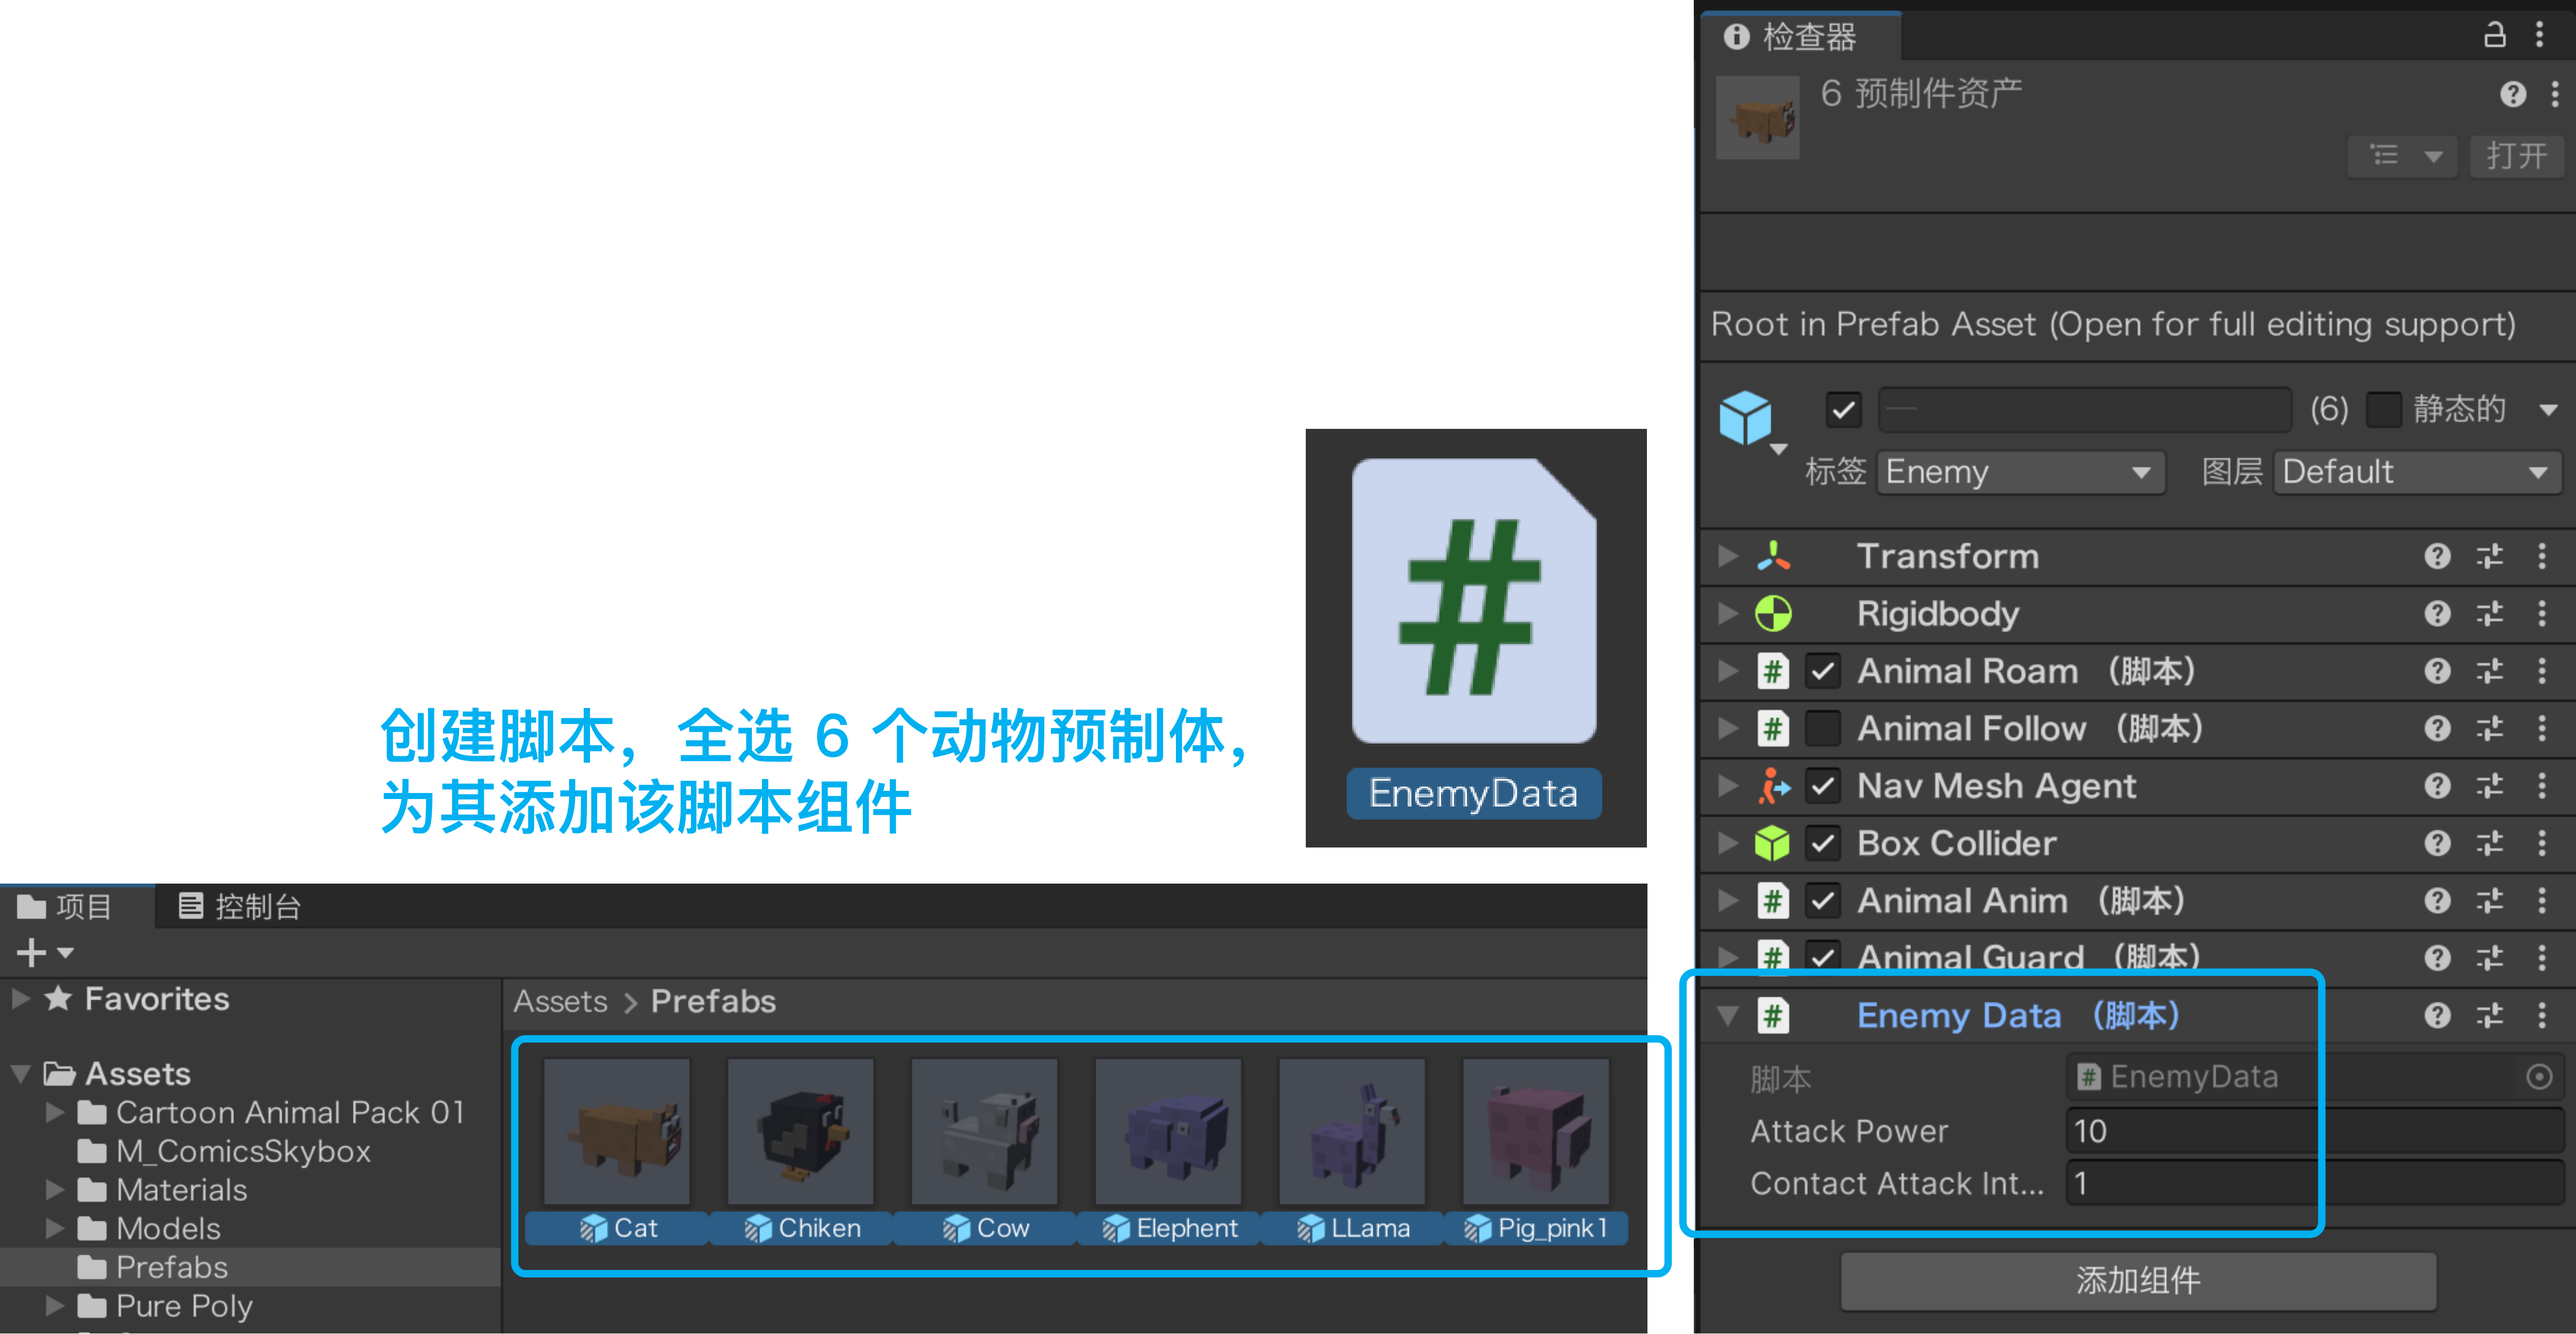
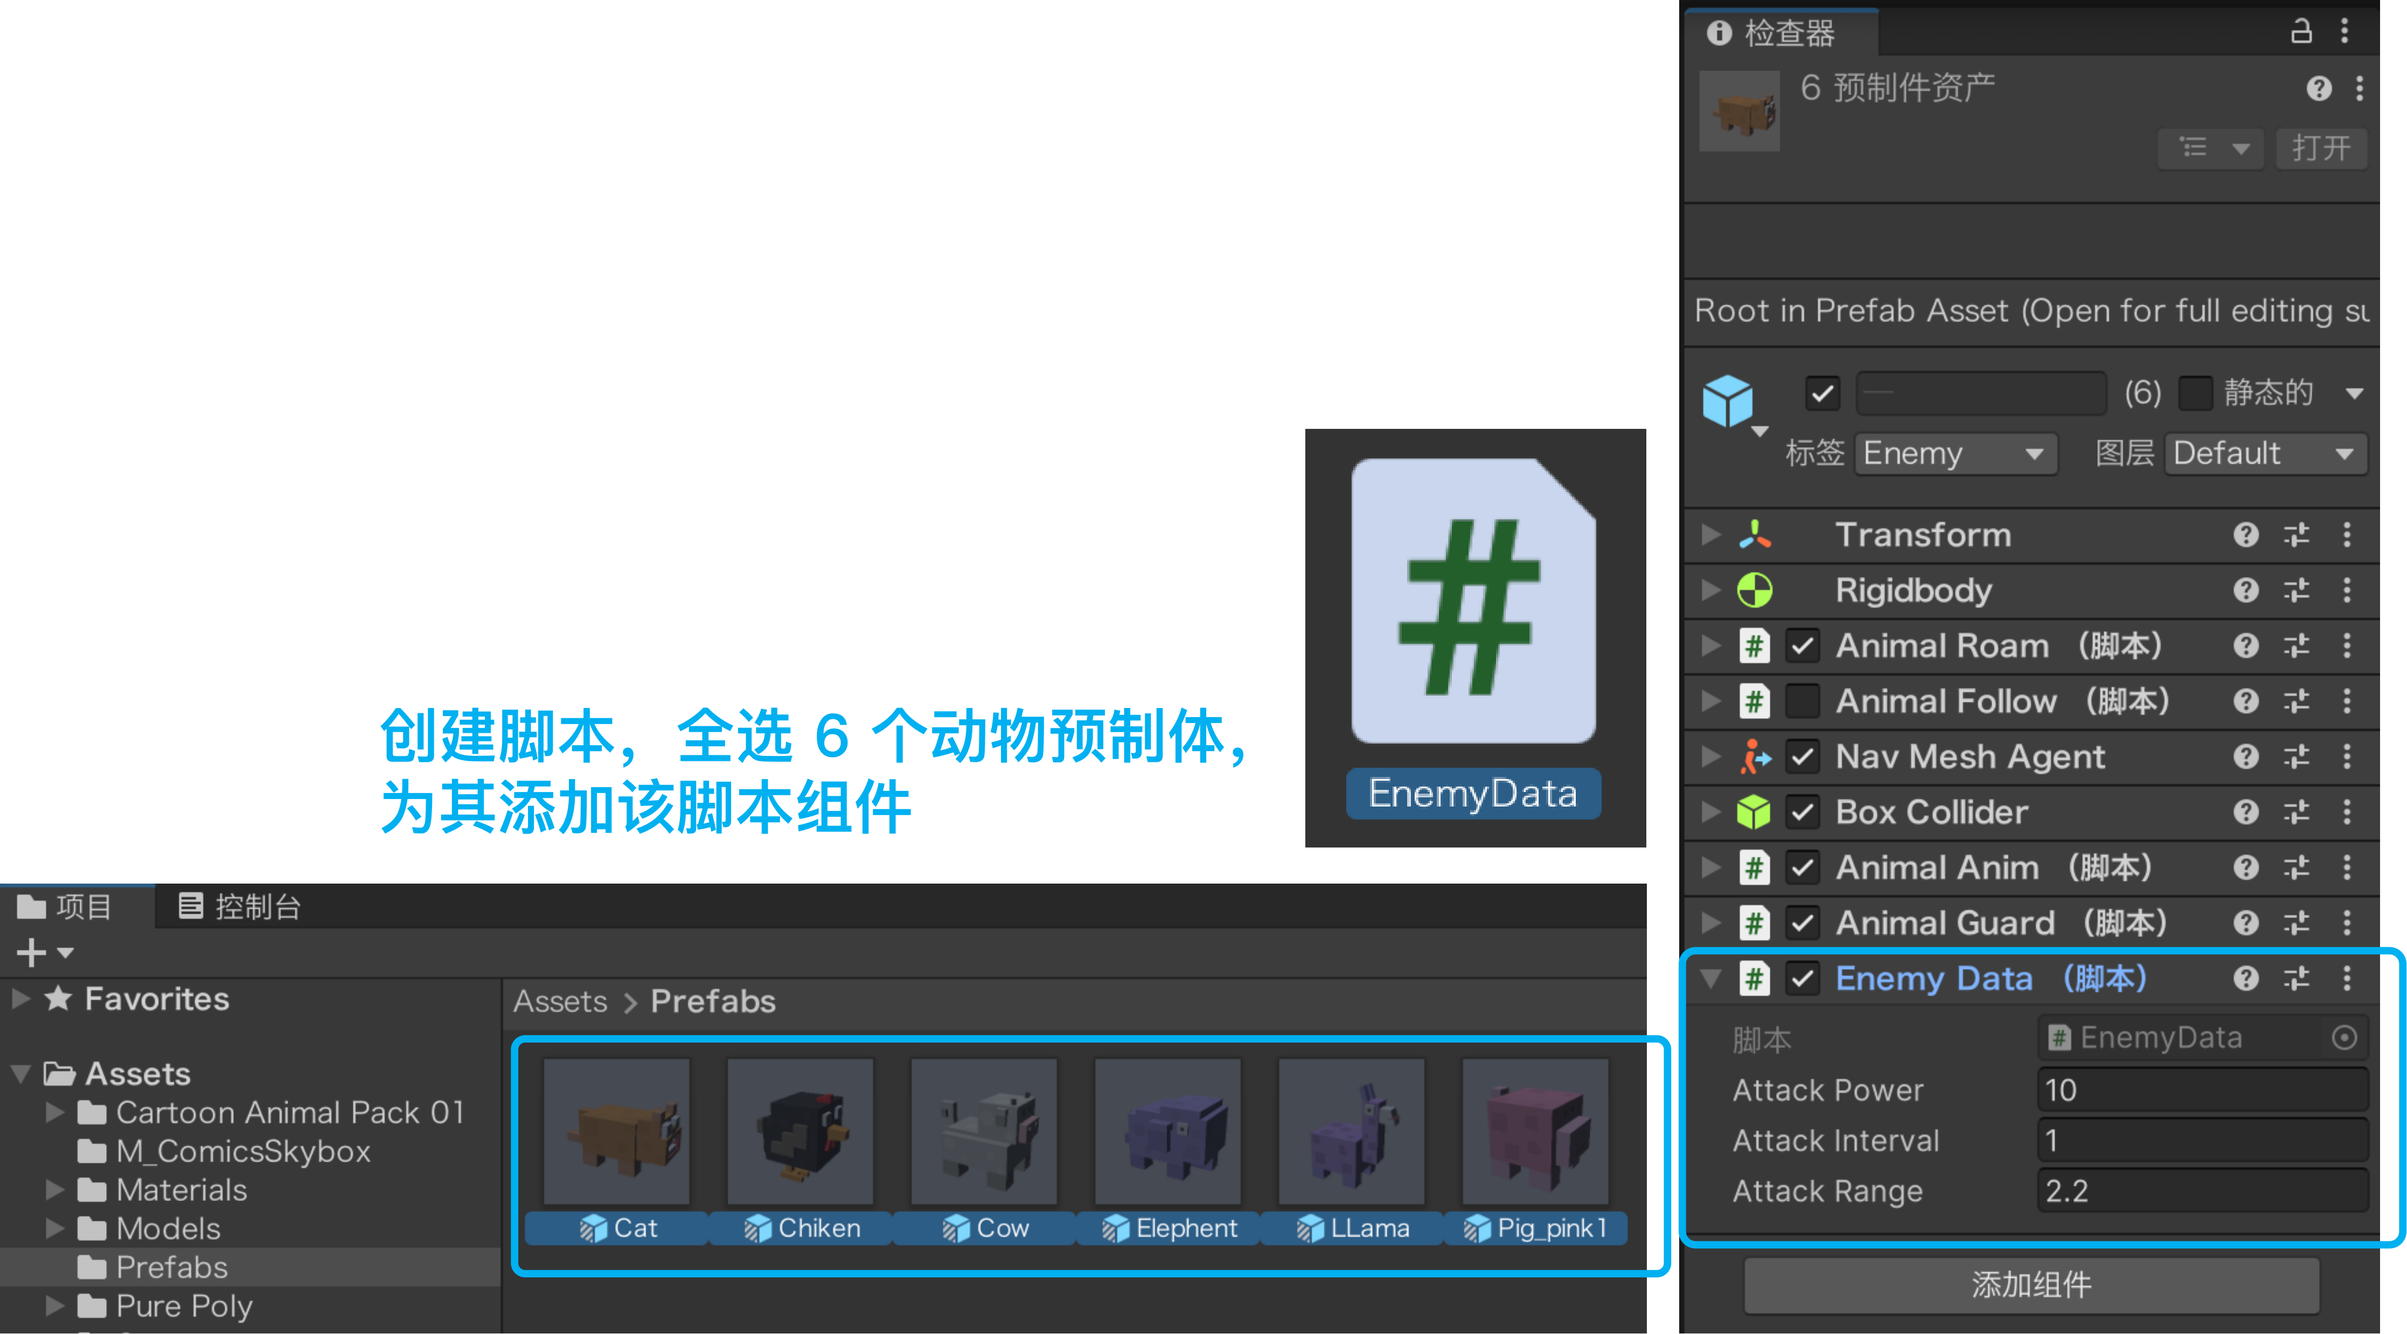
课件20 p13 ①：按最新 EnemyData 与新课件对齐——核对三个字段（补攻击范围 2.2）、改为选中 6 个动物预制体批量添加；新截图带透明背景会给页面文字透出来，补白底

Changed region(s): [[0.0311, 0.0, 1.0, 1.0], [0.0, 0.6531, 0.1244, 0.7153]]

diff --git a/课件20_玩家血条与被接触攻击.html b/课件20_玩家血条与被接触攻击.html
@@ -696,7 +696,7 @@ html.flat-mode,body.flat-mode{height:auto;overflow:visible}
 <rect class="a-g4" data-anim x="300" y="272" width="356" height="48" rx="8" fill="none" stroke="var(--green)" stroke-width="2" opacity="0"/>
 </svg>
 <div class="anim-replay-bar"><button type="button" class="anim-replay" onclick="replayAnim(this)" aria-label="重播这张图的动效">↻ 重播动效</button></div>
-<div class="card"><h3>① 新建 EnemyData.cs，挂到敌人身上</h3><p>项目（Project）窗口右键 → <strong>创建（Create）→ C# 脚本</strong>，命名 <code>EnemyData</code>（大小写要和类名一致）。写完拖到动物身上，检查器里 <strong>攻击力（Attack Power）</strong> 设 <code>10</code>、<strong>攻击间隔（Attack Interval）</strong> 设 <code>1</code>。</p><div class="step-img"><img src="images/课件20/敌人3-EnemyData组件.png" alt="敌人身上挂 EnemyData，攻击力 10、攻击间隔 1" onclick="zoomQR(this)" style="cursor:pointer" onerror="imgMissing(this)"></div></div>
+<div class="card"><h3>① 新建 EnemyData.cs，挂到敌人身上</h3><p>项目（Project）窗口右键 → <strong>创建（Create）→ C# 脚本</strong>，命名 <code>EnemyData</code>（大小写要和类名一致）。写完把 <strong>6 个动物预制体</strong>一起选中，<strong>添加组件（Add Component）</strong> 搜 <code>Enemy Data</code>（组件列表里中间会多一个空格），一次给六个都挂上。检查器里核对三个数：<strong>攻击力（Attack Power）</strong> <code>10</code>、<strong>攻击间隔（Attack Interval）</strong> <code>1</code>、<strong>攻击范围（Attack Range）</strong> <code>2.2</code>——代码里就是这几个默认值，照着核一遍就行。</p><div class="step-img"><img src="images/课件20/敌人3-EnemyData组件.png" alt="6 个动物预制体一起选中后添加 Enemy Data 组件，检查器里攻击力 10、攻击间隔 1、攻击范围 2.2" onclick="zoomQR(this)" style="cursor:pointer;background:#fff" onerror="imgMissing(this)"></div></div>
 <div class="prompt-box">
 <div class="code-toolbar"><span class="code-lang">CSHARP</span><button class="copy-btn" onclick="copyCode('c20_enemydata',this)">复制</button></div>
 <pre id="c20_enemydata"><code class="language-csharp">using UnityEngine;
